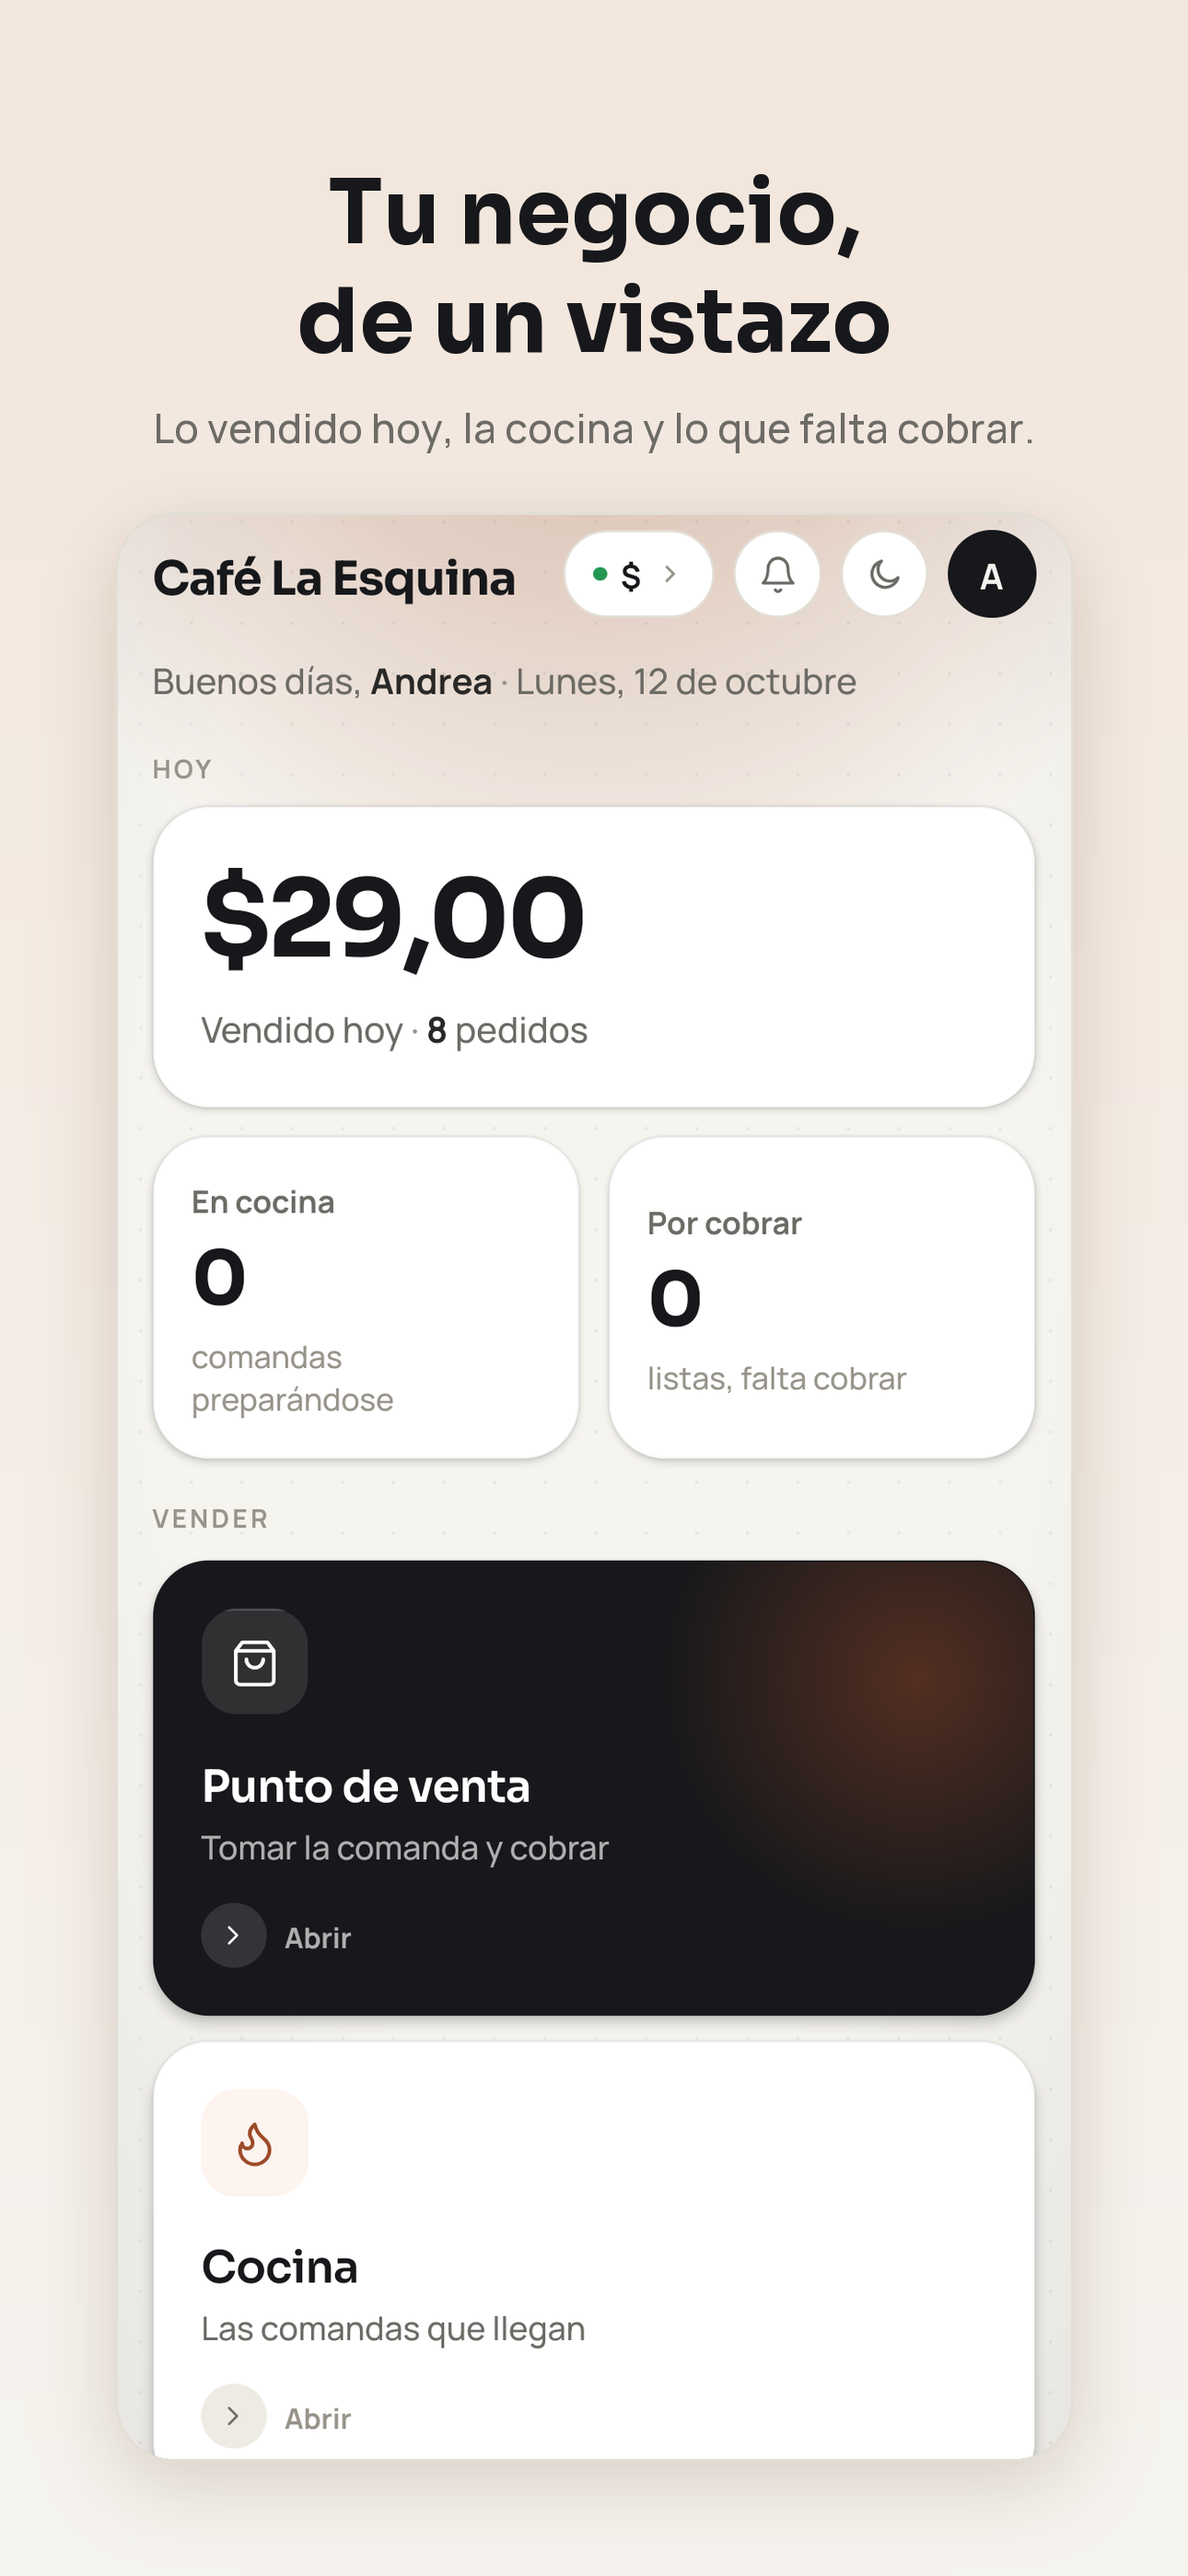
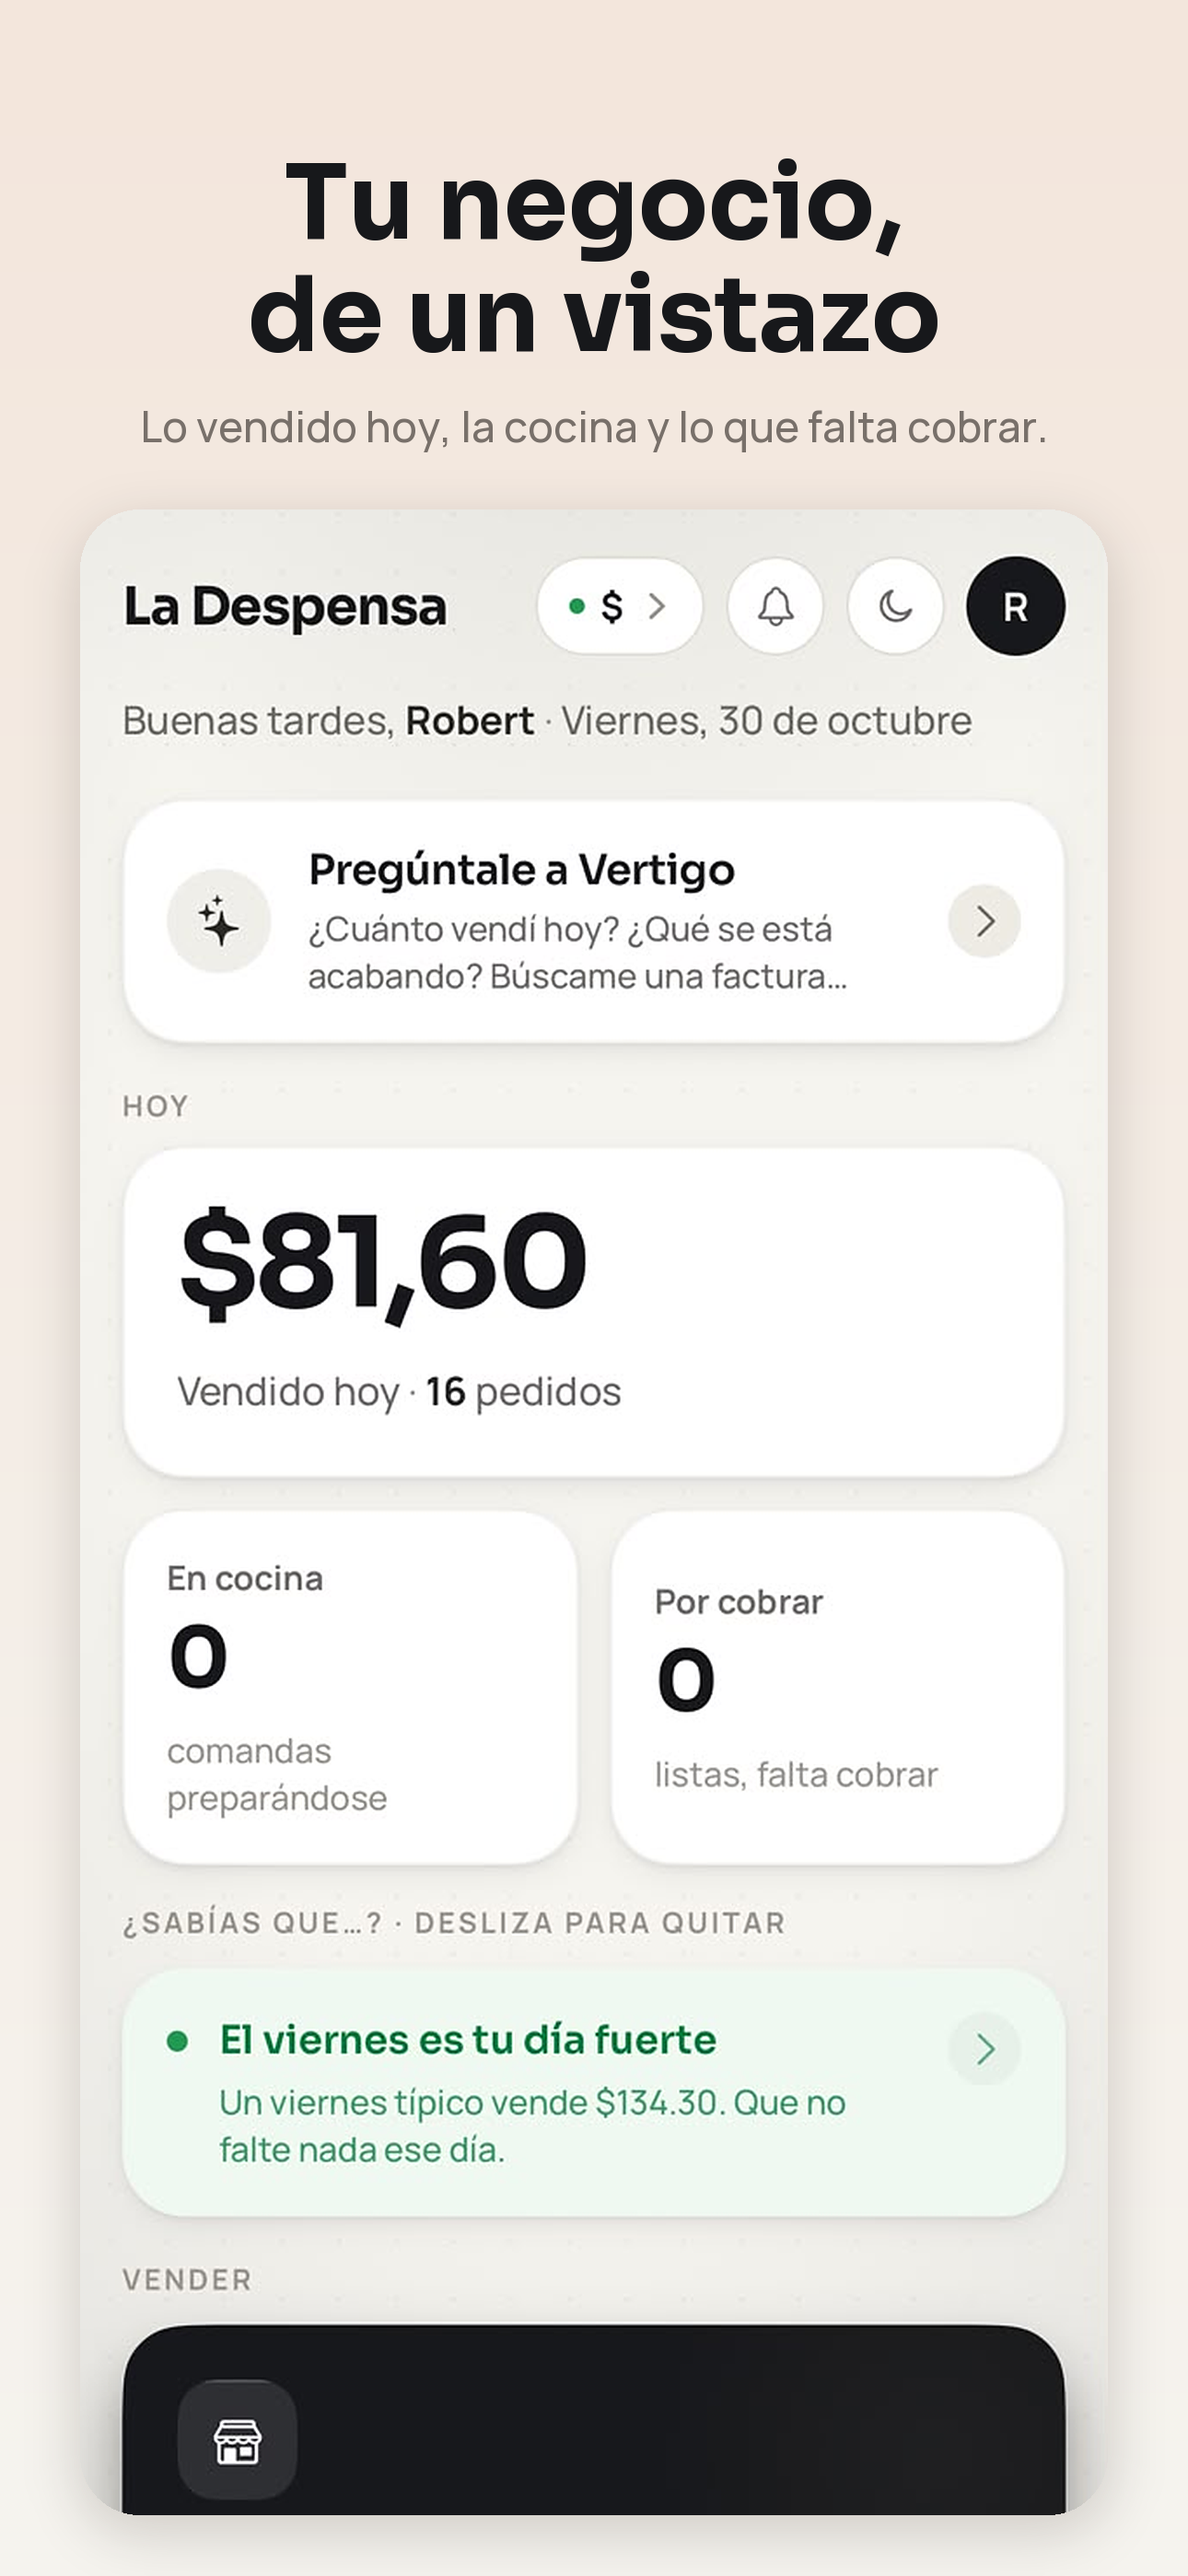
Tienda: capturas del 30-oct y notas del revisor con Anthropic
Seis capturas de 6,9" armadas desde el iPhone (inicio con Pregúntale,
Pregúntame, punto de venta, horas de venta, inventario, factura) y las
notas de App Review y App Privacy actualizadas con el asistente (Claude).

diff --git a/movil/tienda/NOTAS-REVISOR.md b/movil/tienda/NOTAS-REVISOR.md
@@ -1,0 +1,50 @@
+# Notas para el revisor de Apple (App Review Information → Notes)
+
+Copiar tal cual en App Store Connect. Antes de pegar, cambiar `<URL>` por el
+enlace público del video y `<date>` por la fecha hasta la que la demo sigue
+viva. Usuario y clave de `revision` van en los campos "Sign-in required"
+(están en `REVISOR.local.txt`, nunca en estas notas).
+
+```
+1. SCREEN RECORDING
+Recorded on a physical iPhone: <URL>. Shows the home screen, the AI assistant ("Pregúntame": asking a question about sales and getting an answer), the Reports screens and a custom report. The AI consent screen is shown the first time a user taps the assistant; the demo user already accepted it, so to see it again go to Configuración → Mi cuenta → "Retirar el permiso" and open Pregúntame again.
+
+2. APP PURPOSE
+Vertigo Pro is a B2B back-office app for food businesses and small retailers (point of sale, kitchen tickets, inventory, supplier purchases, cash closing, reports and an AI assistant that answers questions about the business's own numbers). It replaces paper tickets and spreadsheets; owners see sales and costs from the phone.
+
+3. ACCESS INSTRUCTIONS & TEST CREDENTIALS
+Each business runs its own server; the business owner creates accounts (there is no public sign-up). To review with demo data (a fictional shop, "La Despensa", no real people; sales are generated every day so "today" always has data):
+1) On the sign-in screen tap "Otro negocio" (Other business).
+2) Type demo.vertigopro.tech and tap "Usar este negocio".
+3) Sign in with the demo credentials provided above (role: owner, full access).
+Suggested path: Inicio → "Pregúntale a Vertigo" (ask e.g. "¿cuánto vendí hoy?") → Reportes → Inventario → Punto de venta (take an order and charge it) → Cocina (the order arrives) → Compras → Cargar factura → Foto o archivo (on the demo server the invoice reader returns sample data and nothing is sent to Google).
+A second test user ("probador", cashier role) is available for account deletion: Configuración → Mi cuenta → Eliminar mi cuenta (asks for the password). If it has already been deleted, tell us and we will recreate it.
+The demo account stays active through <date>. No remote feature flags gate any user-facing feature; the AI features are enabled per business by its own server configuration and are visible on the demo server.
+
+4. EXTERNAL SERVICES
+- Google Cloud (US): hosts the servers and the database.
+- Anthropic (Claude): powers the in-app assistant ("Pregúntame", spoken reports and price suggestions). Only when the user sends a question, and only after an in-app consent screen that names Anthropic (shown before the first question; the permission can be withdrawn in Configuración → Mi cuenta). The request goes through our server and carries the question plus the business's own figures needed to answer it (sales, products, prices, inventory). Anthropic does not train on this data.
+- Google Gemini (Generative Language API): reads a supplier invoice photo/PDF only when the user taps "Leer factura", after a separate in-app consent screen that names Google Gemini.
+- Pabilo: verifies Venezuelan "pago móvil" bank payments by reference number (business-level integration configured by the owner).
+No analytics, ads, tracking or payment SDKs. No in-app purchases; the service is contracted outside the app (B2B). Camera and photo access are only used to photograph supplier invoices when the user taps the button.
+
+5. REGIONAL DIFFERENCES
+The app works the same in every region. Currency features (bolívares, BCV exchange rate) are specific to Venezuelan businesses but available everywhere.
+
+6. REGULATED INDUSTRY
+Not applicable.
+```
+
+## App Privacy (cuestionario de privacidad)
+
+"¿Recopilas datos?" → Sí. Nada se usa para rastrear. Todo vinculado al
+usuario, uso "Funcionalidad de la app".
+
+| Tipo de dato en Apple | Qué es en Vertigo Pro | ¿Compartido con terceros? |
+|---|---|---|
+| Información de contacto → Nombre | Nombre y apellido del usuario | No |
+| Identificadores → ID de usuario | El usuario con que entra | No |
+| Fotos o videos | Fotos de facturas de compra que sube | **Sí** (Google Gemini, solo al leer una factura) |
+| Contenido del usuario → Otro contenido | Ventas, compras, inventario, precios y clientes a crédito del negocio; nombre y RIF del negocio; las preguntas que escribe al asistente | **Sí**: la pregunta y las cifras del negocio van a Anthropic (Claude) al usar el asistente; el nombre y RIF del negocio van a Google Gemini junto con la factura |
+
+Rastreo: No. Publicidad: No.

diff --git a/movil/tienda/APP-STORE.md b/movil/tienda/APP-STORE.md
@@ -22,7 +22,8 @@ Las claves de la cuenta de demostración están en `tienda/REVISOR.local.txt`
 | Cómo eliminar la cuenta (página) | https://vertigopro.tech/eliminar-cuenta.html |
 | Cuenta de prueba para el revisor | Servidor de demostración `demo.vertigopro.tech`: local ficticio "La Despensa" (comida, producción y reventa), 45 días de ventas, compras y contabilidad inventadas |
 | Entrar a otro negocio | Entrar → "Otro negocio" (así entra el revisor a la demo, y sirve para varios locales) |
-| Capturas de iPhone 6,9" (1290×2796) | `tienda/capturas/01…05-iphone-6.9.png` |
+| Capturas de iPhone 6,9" (1290×2796) | `tienda/capturas/01…06-iphone-6.9.png` (30-oct: inicio, Pregúntame, punto de venta, horas, inventario, factura) |
+| Notas para el revisor y App Privacy (con Anthropic) | `tienda/NOTAS-REVISOR.md` |
 
 El nombre de la empresa y el correo de las páginas legales se cambian en
 un solo archivo de la web: `frontend/public/legal-datos.js` (repo
@@ -130,8 +131,10 @@ Vertigo Pro es para negocios: el dueño del local crea el usuario de cada person
 ### 3.2 Capturas
 
 En App Store Connect → la versión → "iPhone 6,9 pulgadas": sube
-`tienda/capturas/01` a `05` en ese orden. Apple usa las mismas para las
-pantallas más chicas.
+`tienda/capturas/01` a `06` en ese orden. Apple usa las mismas para las
+pantallas más chicas. Se arman con `capturas_tienda.py` (en el scratchpad de
+la sesión del 30-oct) a partir de capturas reales del iPhone: pedirlas por
+WhatsApp **como documento**, no como foto, para que no pierdan resolución.
 
 ### 3.3 Clasificación por edad
 
@@ -139,6 +142,8 @@ Responde **Ninguno / No** a todo (violencia, apuestas, contenido médico,
 navegador web abierto, etc.). Resultado: **4+**.
 
 ### 3.4 Privacidad de la app (App Privacy)
+
+> Versión al día (con Anthropic) en `tienda/NOTAS-REVISOR.md`. Lo de abajo es la de octubre 12.
 
 "¿Recopilas datos?" → **Sí**. Ninguno se usa para rastrear. Todos están
 vinculados al usuario y su único uso es **Funcionalidad de la app**. Desde
@@ -166,8 +171,8 @@ Rastreo: **No**. Publicidad: **No**.
   aviso de IA al leer una factura, y Configuración → Mi cuenta (eliminar
   cuenta y los enlaces de privacidad). Súbela a Drive con enlace público y
   pégalo en `<URL>` de las notas.
-- **Notas** (en inglés, que es lo que lee el revisor; las seis secciones que
-  pide Apple para una app nueva). Cambia `<URL>` y `<date>`:
+- **Notas**: las vigentes están en `tienda/NOTAS-REVISOR.md` (incluyen el
+  asistente con Anthropic). Las de abajo son las de octubre 12. Cambia `<URL>` y `<date>`:
 
 ```
 1. SCREEN RECORDING
@@ -220,8 +225,10 @@ Not applicable.
 
 ## 6. El servidor de demostración
 
-- VPS de Hostinger (2.25.223.224), carpeta `/docker/demo`, junto al de
-  prueba. Dominio `demo.vertigopro.tech` en Cloud DNS.
+- Desde el 22-oct-2026 en la VM de GCP `vertigo-erp` (us-east1-b), carpeta
+  `/docker/demo`, servicios `demo-backend` / `demo-db`. Dominio
+  `demo.vertigopro.tech` en Cloud DNS. Usuarios: `revision` (dueño) y
+  `probador` (caja), claves en `REVISOR.local.txt`.
 - Lector de facturas en modo "prueba" (no gasta IA) y sin Pabilo.
 - Para volver a llenarlo desde cero: borrar el volumen `demo_pg`, levantar,
   copiar `demo_data.py` al contenedor y correrlo (ver el encabezado del
